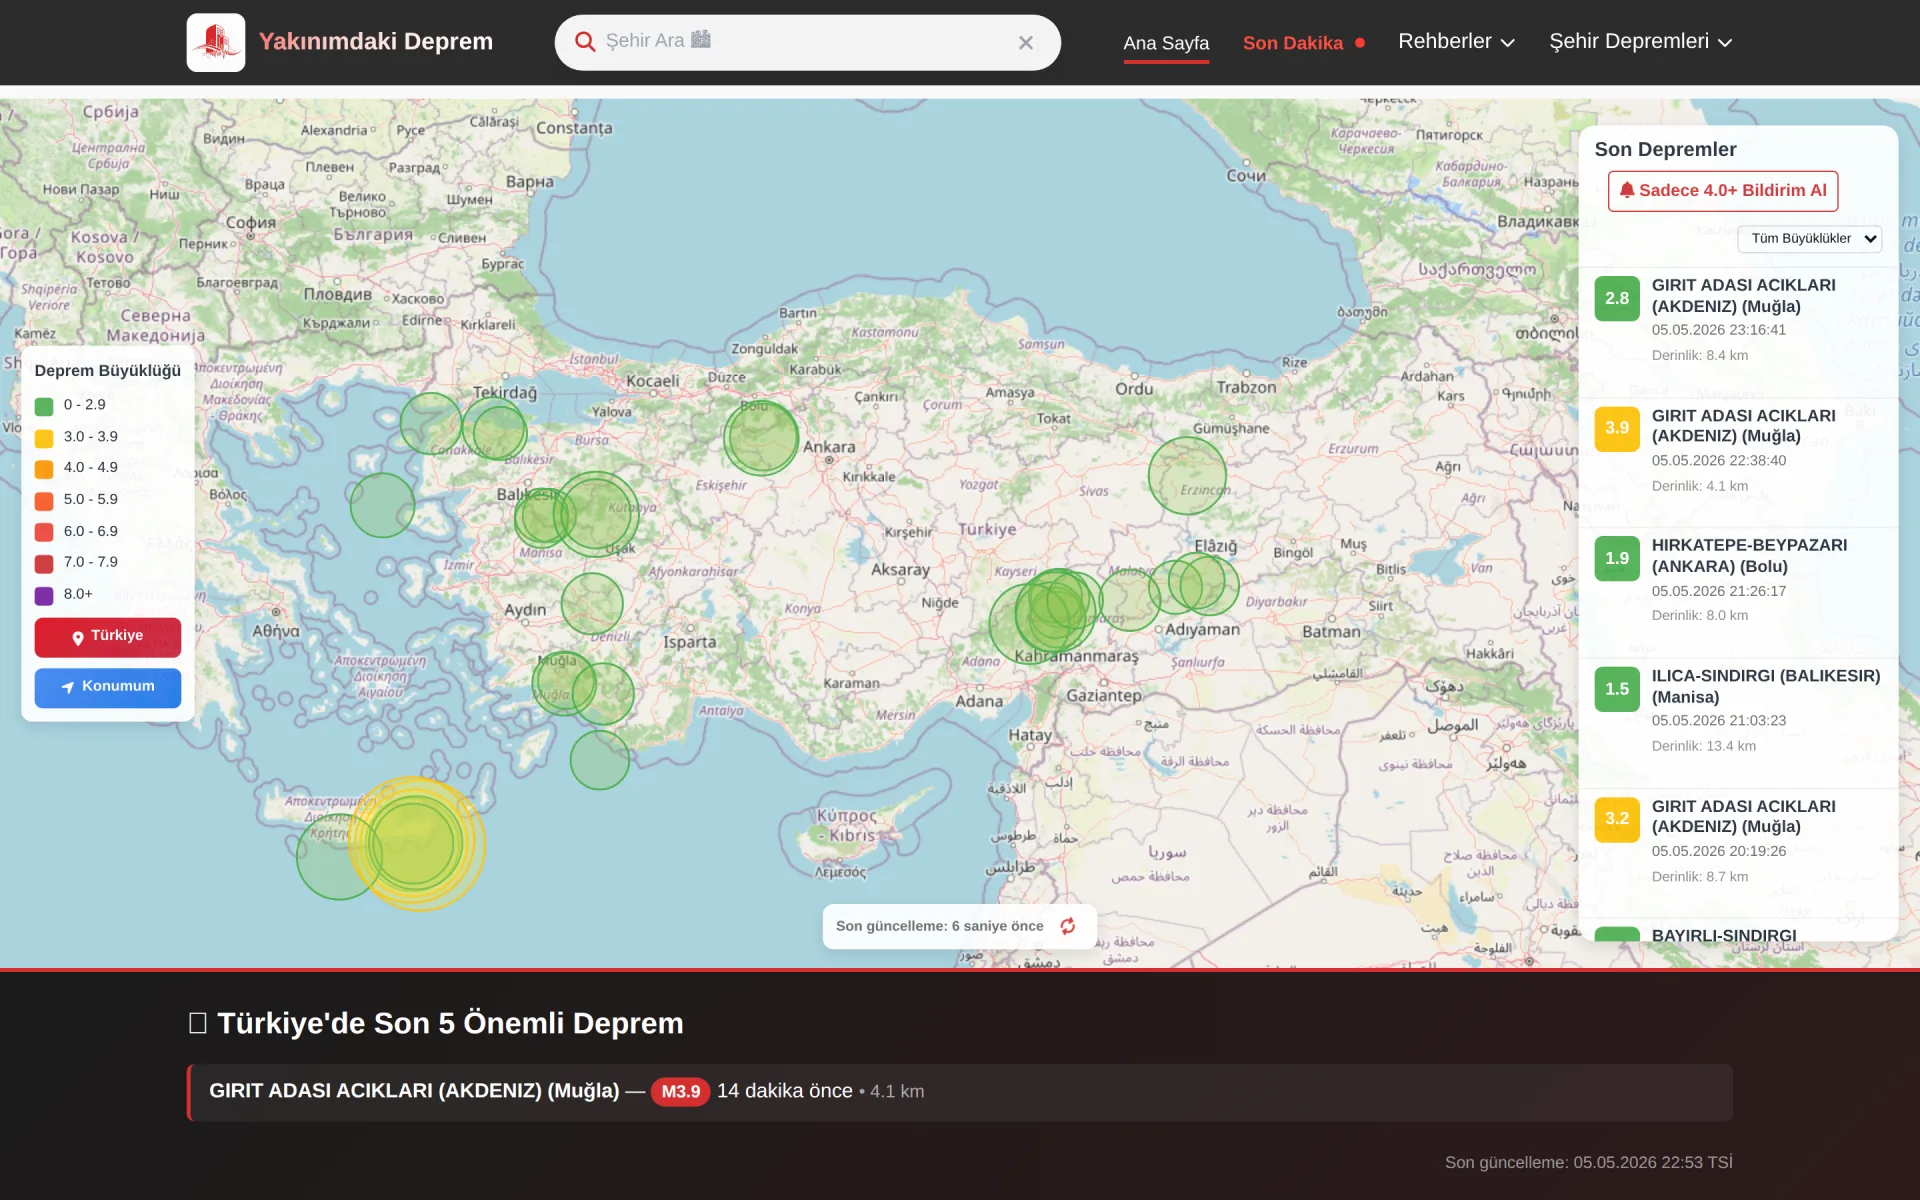
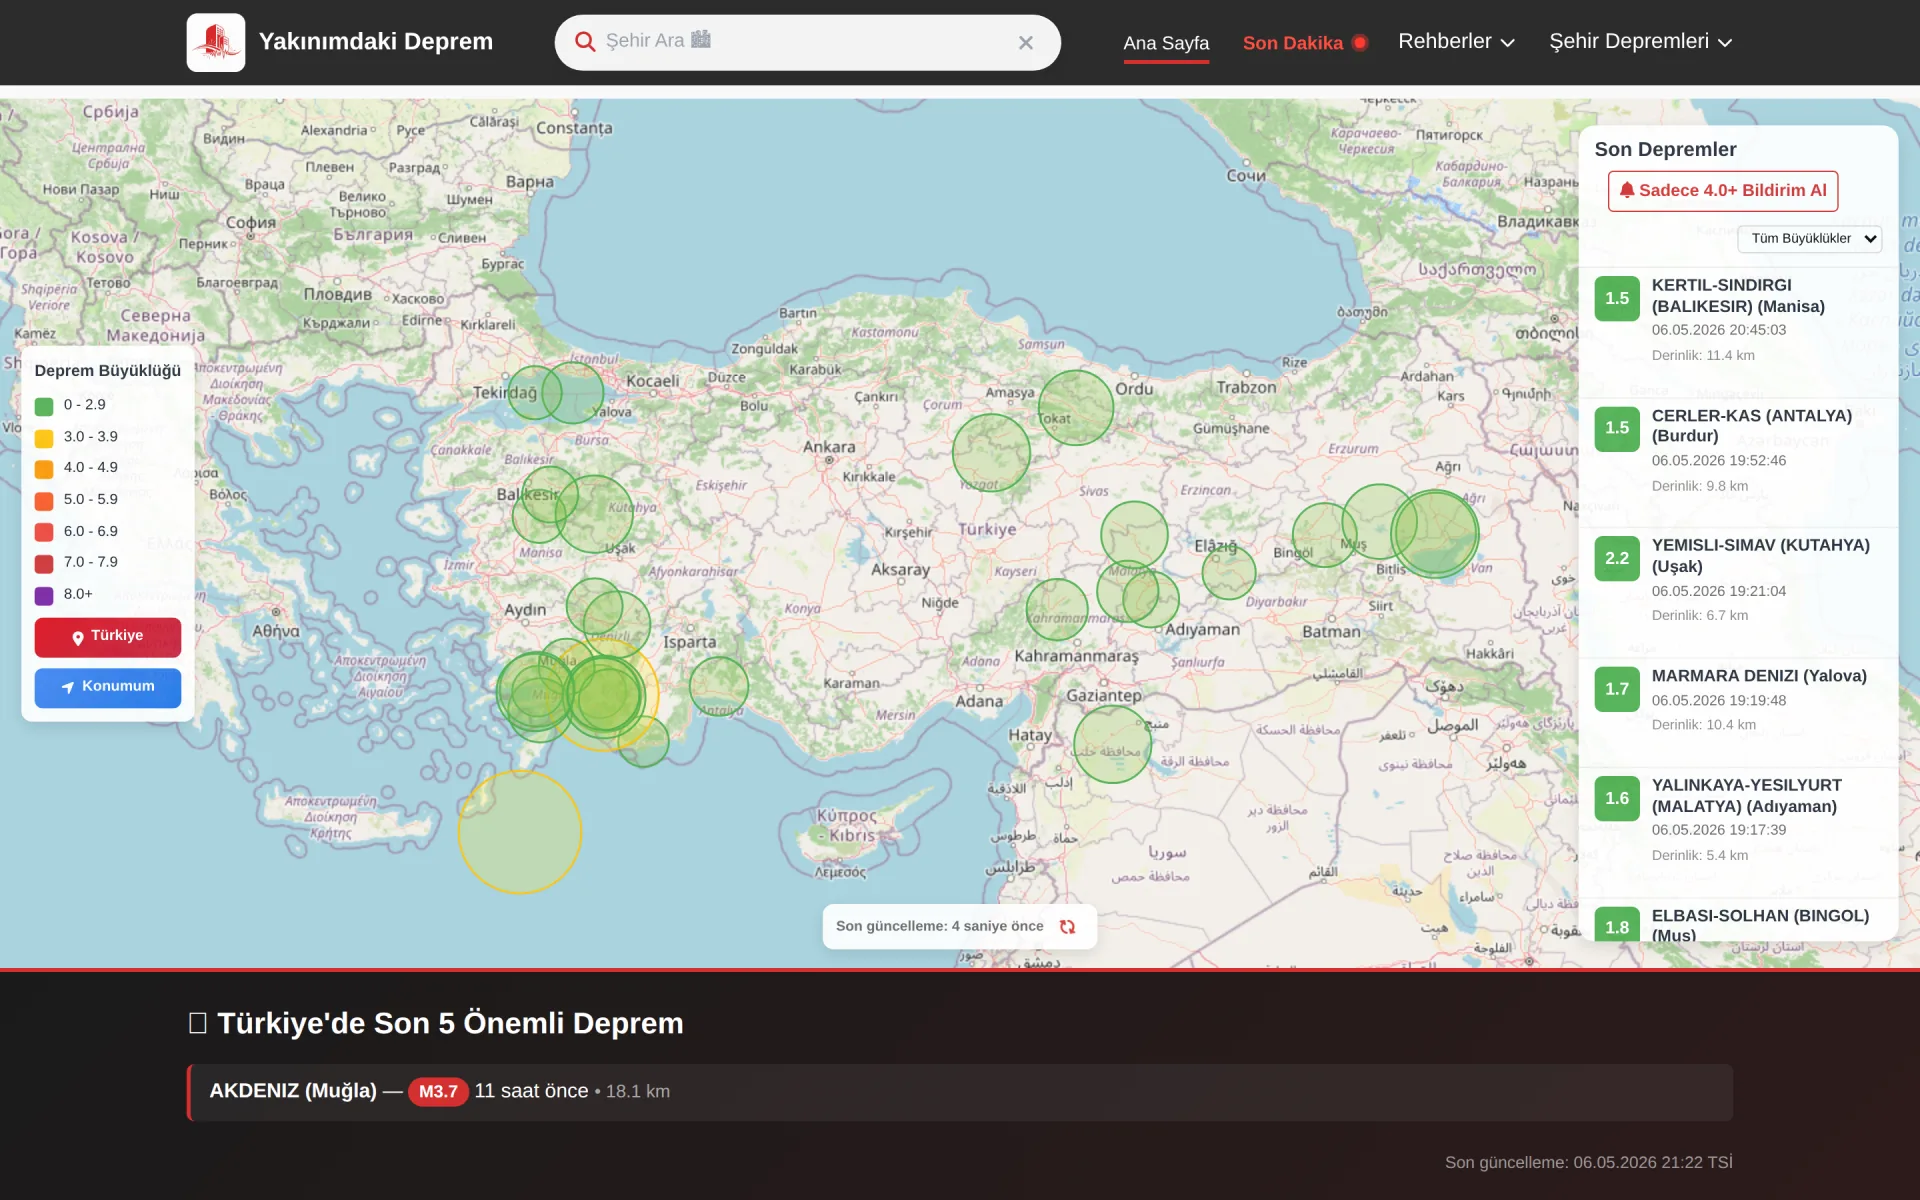
docs: add mobile screenshot alongside desktop in README

diff --git a/public/index.html b/public/index.html
@@ -417,14 +417,13 @@
         <div class="container">
             <h2 class="hp-fresh__title">🔴 Türkiye'de Son 5 Önemli Deprem</h2>
             <ul class="hp-fresh__list">
-                <li class="hp-fresh__item"><a href="/deprem-mugla.html"><strong>AKDENIZ (Muğla)</strong></a> — <span class="hp-fresh__mag">M3.7</span> <time datetime="2026-05-06T09:23:25+03:00">13 dakika önce</time> <span class="hp-fresh__depth">• 18.1 km</span></li>
-                <li class="hp-fresh__item"><a href="/deprem-kahramanmaras.html"><strong>PAYAMBURNU-GOKSUN (KAHRAMANMARAS) (Osmaniye)</strong></a> — <span class="hp-fresh__mag">M3.6</span> <time datetime="2026-05-06T05:22:21+03:00">4 saat önce</time> <span class="hp-fresh__depth">• 5.0 km</span></li>
+                <li class="hp-fresh__item"><a href="/deprem-mugla.html"><strong>AKDENIZ (Muğla)</strong></a> — <span class="hp-fresh__mag">M3.7</span> <time datetime="2026-05-06T09:23:25+03:00">11 saat önce</time> <span class="hp-fresh__depth">• 18.1 km</span></li>
             </ul>
-            <p class="hp-fresh__updated">Son güncelleme: <time datetime="2026-05-06T09:36:46.852179+03:00">06.05.2026 09:36 TSİ</time></p>
+            <p class="hp-fresh__updated">Son güncelleme: <time datetime="2026-05-06T21:22:55.737020+03:00">06.05.2026 21:22 TSİ</time></p>
         </div>
     </section>
     <script type="application/ld+json">
-    {"@context": "https://schema.org", "@type": "LiveBlogPosting", "headline": "Türkiye Anlık Deprem Takibi — Canlı", "datePublished": "2026-05-06T09:23:25+03:00", "dateModified": "2026-05-06T09:36:46.852179+03:00", "coverageStartTime": "2026-05-06T09:23:25+03:00", "about": {"@type": "Place", "name": "Türkiye"}, "author": {"@type": "Organization", "name": "Yakınımdaki Deprem"}, "publisher": {"@type": "Organization", "name": "Yakınımdaki Deprem", "logo": {"@type": "ImageObject", "url": "https://yakinimdakideprem.com/icons/android-chrome-512x512.png"}}, "liveBlogUpdate": [{"@type": "BlogPosting", "headline": "AKDENIZ (Muğla) M3.7", "datePublished": "2026-05-06T09:23:25+03:00", "articleBody": "13 dakika önce, AKDENIZ (Muğla) bölgesinde 3.7 büyüklüğünde deprem kaydedildi. Derinlik: 18.1 km."}, {"@type": "BlogPosting", "headline": "PAYAMBURNU-GOKSUN (KAHRAMANMARAS) (Osmaniye) M3.6", "datePublished": "2026-05-06T05:22:21+03:00", "articleBody": "4 saat önce, PAYAMBURNU-GOKSUN (KAHRAMANMARAS) (Osmaniye) bölgesinde 3.6 büyüklüğünde deprem kaydedildi. Derinlik: 5.0 km."}]}
+    {"@context": "https://schema.org", "@type": "LiveBlogPosting", "headline": "Türkiye Anlık Deprem Takibi — Canlı", "datePublished": "2026-05-06T09:23:25+03:00", "dateModified": "2026-05-06T21:22:55.737020+03:00", "coverageStartTime": "2026-05-06T09:23:25+03:00", "about": {"@type": "Place", "name": "Türkiye"}, "author": {"@type": "Organization", "name": "Yakınımdaki Deprem"}, "publisher": {"@type": "Organization", "name": "Yakınımdaki Deprem", "logo": {"@type": "ImageObject", "url": "https://yakinimdakideprem.com/icons/android-chrome-512x512.png"}}, "liveBlogUpdate": [{"@type": "BlogPosting", "headline": "AKDENIZ (Muğla) M3.7", "datePublished": "2026-05-06T09:23:25+03:00", "articleBody": "11 saat önce, AKDENIZ (Muğla) bölgesinde 3.7 büyüklüğünde deprem kaydedildi. Derinlik: 18.1 km."}]}
     </script>
     <!-- SSR-FRESHNESS-END -->
 

diff --git a/README.md b/README.md
@@ -4,11 +4,22 @@ A free, real-time earthquake tracker for Turkey — no ads, no sign-up, no paywa
 
 Live at **[yakinimdakideprem.com](https://yakinimdakideprem.com)**.
 
-<p align="center">
-  <a href="https://yakinimdakideprem.com">
-    <img src="docs/screenshot.webp" alt="Yakınımdaki Deprem — live earthquake map for Turkey" width="900">
-  </a>
-</p>
+<table align="center">
+  <tr>
+    <td align="center" width="70%">
+      <a href="https://yakinimdakideprem.com">
+        <img src="docs/screenshot.webp" alt="Yakınımdaki Deprem — desktop view, live earthquake map for Turkey">
+      </a>
+      <br><sub><b>Desktop</b> — live map and recent quakes feed</sub>
+    </td>
+    <td align="center" width="30%">
+      <a href="https://yakinimdakideprem.com">
+        <img src="docs/screenshot-mobile.webp" alt="Yakınımdaki Deprem — mobile view">
+      </a>
+      <br><sub><b>Mobile</b> — fast on a slow phone</sub>
+    </td>
+  </tr>
+</table>
 
 ## What it does
 
